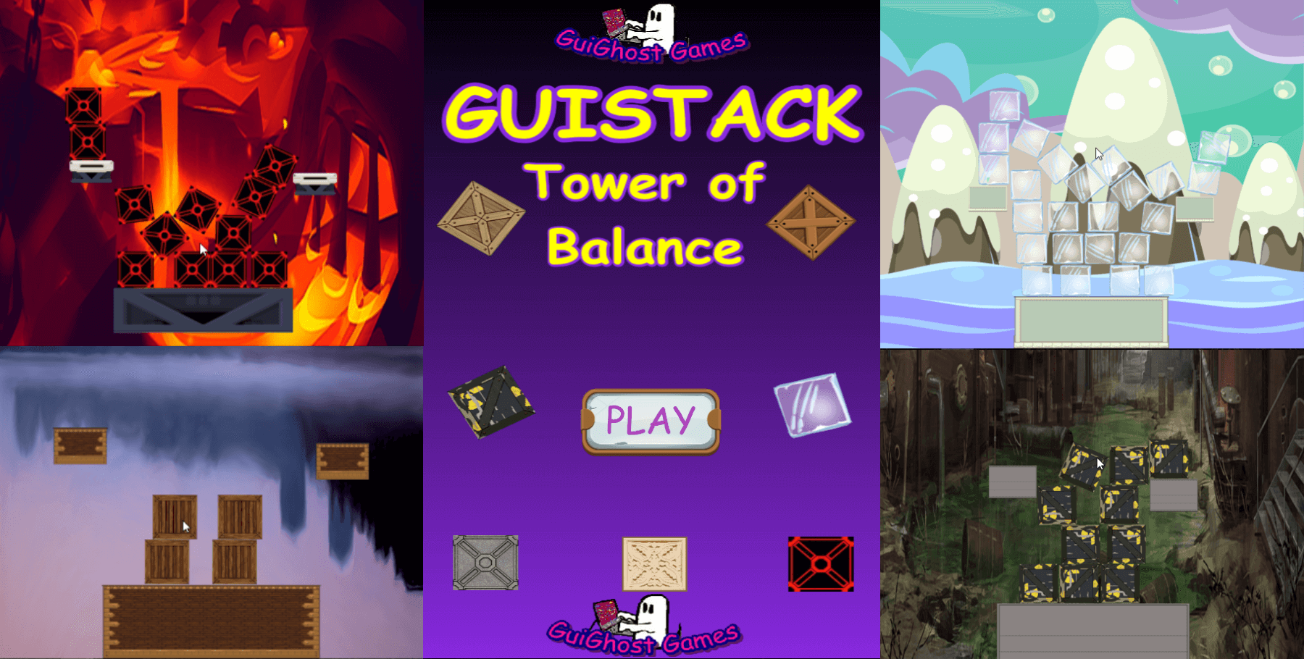
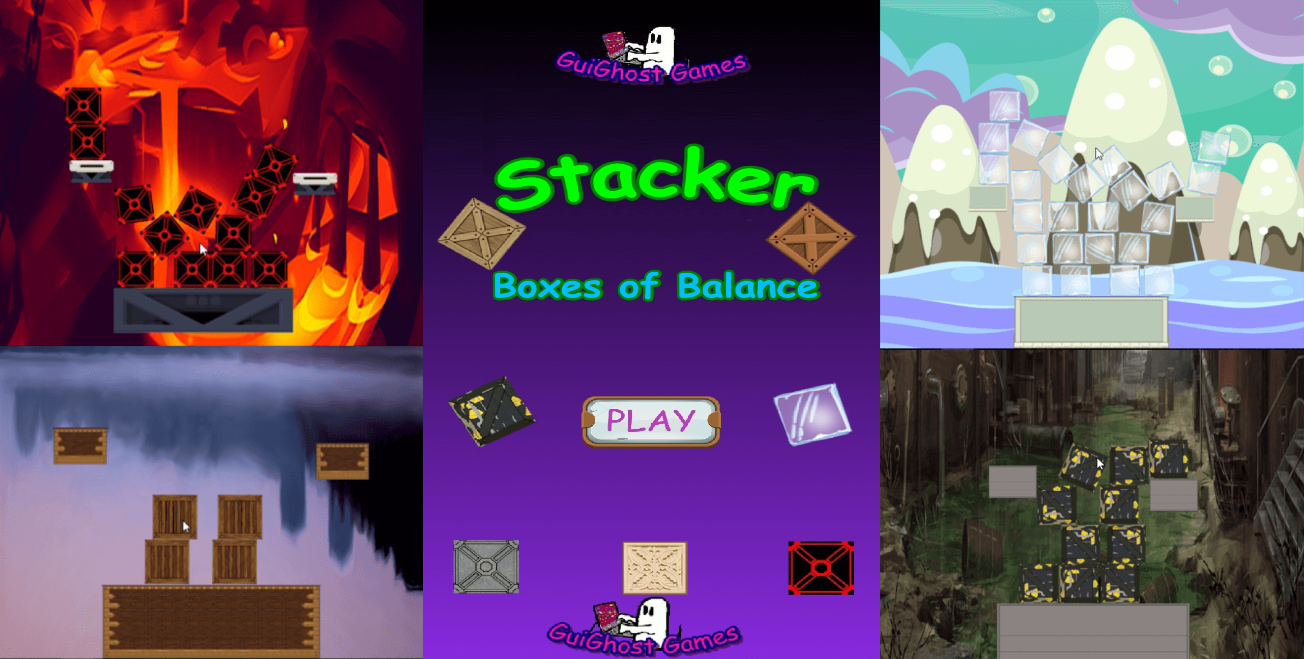
Update to Stacker and remove GuiStack

diff --git a/ggHomestyle.css b/ggHomestyle.css
@@ -132,7 +132,30 @@ StarMatchSection { height: 850px;}
     margin-top: 5px;
     transform: translateY(-40px)
 }
-#starCashSpot{background-image:url(Images/Homepage/starCash.png);background-position:left;background-repeat:no-repeat;background-size:contain;height:40px;background-position-x:10px;}
+#stackerWrap {
+    display: flex;
+    justify-content: space-between;
+    width: 60%;
+    margin-left: 20%;
+    border: 2px solid red;
+    transform: translateY(-100px);
+}
+#gPlayIconStacker {
+  margin-left: 10%; 
+
+}
+#playStacker {
+    margin-right: 10%;
+
+}
+#starCashSpot {
+    background-image: url(Images/Homepage/starCash.png);
+    background-position: left;
+    background-repeat: no-repeat;
+    background-size: contain;
+    height: 40px;
+    background-position-x: 10px;
+}
 #infoAbout{min-height:740px;transform:translateY(-150px);font-size:20px;}
 #famHead{background-image:url(Images/Homepage/icons8-family-50.png);background-position:left;background-repeat:no-repeat;background-size:contain;height:40px;background-position-x:20px;}
 #anyHead{background-image:url(Images/Homepage/icons8-responsive-50.png);background-position:left;background-repeat:no-repeat;background-size:contain;height:40px;}
@@ -147,7 +170,29 @@ StarMatchSection { height: 850px;}
  clear: both;
     left: 0px;
 }
+@media screen and (max-width:1440px) {
+    #stackerWrap {
+        display: flex;
+        justify-content: space-between;
+        width: 50%;
+        margin-left: 25%;
+        border: none;
+        transform: translateY(-100px);
+    }
 
+    #gPlayIconStacker {
+        margin-left: 2%;
+    }
+
+    #playStacker {
+        margin-right: 15%;
+        transform: translateX( -75px);
+    }
+
+    #gbadge2 {
+        width: 175px;
+    }
+}
 @media screen and (max-width:1000px) {
         .topnav a{font-size:15px;}
 #infoAbout{font-size:16px;}
@@ -156,12 +201,35 @@ StarMatchSection { height: 850px;}
     h3 {
         font-size: 18px;
     }
+
    
 }
-@media screen and (max-width:800px){.topnav a{font-size:10px;}
+@media screen and (max-width:800px){
+    .topnav a{font-size:10px;}
 #infoAbout{font-size:15px;}
 #sodukuImg{transform:translate(0px, -100px) scale(0.7);}
 #infoSoduku{transform:translate(0px, -200px);max-height:1100px;}
+    #stackerWrap {
+        display: flex;
+        justify-content: space-between;
+        width: 90%;
+        margin-left: 5%;
+        border: none;
+        transform: translateY(-100px);
+    }
+
+    #gPlayIconStacker {
+        margin-left: 2%;
+    }
+
+    #playStacker {
+        margin-right: 15%;
+        transform: translateX( -75px);
+    }
+
+    #gbadge2 {
+        width: 175px;
+    }
 }
 @media screen and (max-width:600px){.topnav a:not(:first-child){display:none;}
 .topnav a.icon{float:right;display:block;}
@@ -172,6 +240,10 @@ StarMatchSection { height: 850px;}
     }
     #leftad1 {
       display: none;
+    }
+
+    #gbadge2 {
+        width: 175px;
     }
 }
 @media screen and (max-width:600px){.topnav.responsive{position:relative;}
@@ -187,6 +259,28 @@ StarMatchSection { height: 850px;}
     }
     #communityFarm {
         margin-left: 20%;
+    }
+
+    #stackerWrap {
+        display: flex;
+        justify-content: space-between;
+        width: 90%;
+        margin-left: 5%;
+        border: none;
+        transform: translateY(-100px);
+    }
+
+    #gPlayIconStacker {
+        margin-left: 2%;
+    }
+
+    #playStacker {
+        margin-right: 15%;
+        transform: translateX( -75px);
+    }
+
+    #gbadge2 {
+        width: 175px;
     }
 }
 @media screen and (max-width:400px){#aboutSection{max-height:1400px;min-width:97%;margin-left:2%;}
@@ -204,6 +298,27 @@ StarMatchSection { height: 850px;}
     }
     .playBtns {
     margin-left: 40%;}
+    #stackerWrap {
+        display: flex;
+        justify-content: space-between;
+        width: 90%;
+        margin-left: 5%;
+        border: none;
+        transform: translateY(-100px);
+    }
+    #gPlayIconStacker {
+        margin-left: 2%;
+    }
+
+    #playStacker {
+        margin-right: 5%;
+        transform: translateX( -45px);
+    }
+    #gbadge2 {
+    width:175px;
+    }
+
+ 
 }
 @media screen and (max-width:350px) {
     #aboutSection {
@@ -234,6 +349,30 @@ StarMatchSection { height: 850px;}
     }
     #starMatchImg {
         transform: translate(-15px, -100px) scale(.8);
+    }
+    #stackerWrap {
+        display: flex;
+        justify-content: space-between;
+        width: 96%;
+        margin-left: 2%;
+        border: none;
+        transform: translateY(-100px);
+    }
+
+    #gPlayIconStacker {
+        margin-left: 1%;
+        width: 150px;
+        border: 2px solid red;
+    }
+
+    #playStacker {
+        margin-right: 5%;
+        transform: translate( -55px, -5px);
+    }
+
+    #gbadge2 {
+        width: 150px;
+        margin-left: 0px;
     }
 }
 @media screen and (max-height:650px) {

diff --git a/index.html b/index.html
@@ -130,7 +130,7 @@
 
             <a href="#bubbleSection"> Gui Bubble Story </a>
 
-            <a href="#guiStackSection"> GuiStack</a>
+            <a href="#guiStackSection"> Stacker</a>
 
             <a href="#guiMatchSection"> GuiMatch</a>
 
@@ -171,7 +171,7 @@
                 <a id="g3" class="gameTiles" href="GuiGemTrax/"></a>
                 <a id="g4" class="gameTiles" href="GuiSlidePuzzle/"></a>
                 <a id="g5" class="gameTiles" href="GuiSpellMatch/"></a>
-                <a id="g6" class="gameTiles" href="GuiStack/"></a>
+                <a id="g6" class="gameTiles" href="Stacker-BoxesOfBalance/"></a>
                 <a id="g7" class="gameTiles" href="GuiMatch/"></a>
                 <!--<a id="g8" class="gameTiles" href="GuiGraveyardJump/"></a>-->
                 <!--<a id="g9" class="gameTiles"></a>-->
@@ -194,7 +194,7 @@
          
                 <div itemscope itemtype="https://schema.org/SoftwareApplication"  id="infoGuiFarm" class="infoDivs">
              
-                        <a id="gPlayIcon" href='https://play.google.com/store/apps/details?id=com.wGuiGhostFarms_9861566&pcampaignid=pcampaignidMKT-Other-global-all-co-prtnr-py-PartBadge-Mar2515-1'><img id ="gbadge"alt='Get it on Google Play' src='Images/Homepage/google-play-badge.png' /></a>
+                        <a id="gPlayIcon" href='MedievalFarms/index.html'><img id ="gbadge"alt='Get it on Google Play' src='Images/Homepage/google-play-badge.png' /></a>
                     <a id="playMedieval" class="playBtns" href="MedievalFarms/MedievalFarms.html"> -Play Online- </a>
                     <a id="communityFarm" href="https://www.facebook.com/Medieval-Farms-Idle-Farming-Game-100233038165937/" target="_blank"> Community </a>
 
@@ -211,12 +211,17 @@
 
           <section id="guiStackSection">
             <div>
-                <h2 id="guiStack">GuiStack - Tower of Balance</h2>
+                <h2 id="guiStack">Stacker - Boxes of Balance</h2>
                 <a href="GuiStack/">
                     <img itemprop="screenshot" id="guiStackImg" src="Images/Homepage/guiStack1.2.png" />
 
                 </a>
-                <div id="infoGuiStack" class="infoDivs"> <a class="playBtns" href="GuiStack/"> -PLAY- </a> Stack the boxes and get the high score. Quick 60 second game sessions are Snack size fun that keeps you coming back for more!  </div>
+                <div id="stackerWrap">
+                    <div><a id="gPlayIconStacker" href='https://play.google.com/store/apps/details?id=com.GuiGhostGames.StackerBoB'><img id="gbadge2" alt='Get it on Google Play' src='Images/Homepage/google-play-badge.png' /></a></div>
+                    <div><a id="playStacker" class="playBtns" href="Stacker-BoxesOfBalance/index.html"> -Play Online- </a></div>
+                </div>
+             
+                <div id="infoGuiStack" class="infoDivs"> Stack the boxes and get the high score. Quick 60 second game sessions are Snack size fun that keeps you coming back for more!  </div>
             </div>
 
         </section>
